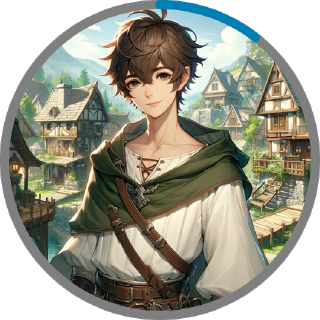
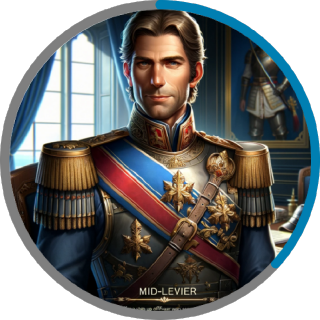
気になったところを修正

diff --git a/src/main.go b/src/main.go
@@ -2,7 +2,7 @@ package main
 
 import (
 	"fmt"
-
+	"time"
 	"log"
 	"net/http"
 	"os"
@@ -91,7 +91,7 @@ func getHistoryHandler(w http.ResponseWriter, r *http.Request) {
 		return
 	}
 
-	err = graphs.DrawCommitChart(dailyCommits, maxCommits, 1000, 700)
+	err = graphs.DrawCommitChart(dailyCommits, maxCommits, 1000, 700,username)
 	if err != nil {
 		fmt.Println(err)
 	}
@@ -136,31 +136,46 @@ func createHandler(w http.ResponseWriter, r *http.Request) {
 		// GETリクエストの処理
 		// 一意の画像ファイル名の生成（例: ユーザー名とタイムスタンプを組み合わせる）
 		imageFileName := fmt.Sprintf("result_%s.png", username)
+        // 画像ファイルの存在チェックと最終更新時間の確認
+        fileInfo, err := os.Stat(imageFileName)
+        regenerate := false // 再生成するかどうかのフラグ
 
-		// 画像ファイルの存在チェック
-		if _, err := os.Stat(imageFileName); os.IsNotExist(err) {
+        if err != nil && os.IsNotExist(err) {
+            // 画像が存在しない場合、再生成フラグを立てる
+            regenerate = true
+        } else if err == nil {
+            // 画像が存在する場合、最終更新時間からの経過時間を確認
+            elapsedTime := time.Since(fileInfo.ModTime())
+            if elapsedTime.Hours() >= 1 {
+                // 最終更新から1時間以上経過していれば、再生成フラグを立てる
+                regenerate = true
+            }
+        }
+
+        if regenerate {
 			// 画像が存在しない場合は、新たに生成
 
 			// 画像生成の処理...
+			_,star ,_ := funcs.GetRepositories(username)
 			// stats取得と画像生成
-			stats := funcs.CreateUserStats(username)
+			stats := funcs.CreateUserStats(username,star)
 			total := stats.TotalStars + stats.ContributedTo + stats.TotalIssues + stats.TotalPRs + stats.TotalCommits
 			// 言語画像の生成
 			language := funcs.CreateLanguageImg(username)
 			//レベル、職業判定
 			profession, level := funcs.JudgeRank(language, stats)
 
+
 			//対象のキャラの画像を取得
 			img := funcs.DispatchPictureBasedOnProfession(profession)
-			
-			// コミットカレンダー画像の生成
+
 			filePath := fmt.Sprintf("characterImages/%s", img)
 
 			// 背景画像の生成
 			funcs.DrawBackground(username, "Lv."+strconv.Itoa(level), profession)
 
 			// キャラクター画像の生成
-			funcs.CreateCharacterImg(filePath, "images/gauge.png", total, level)
+			funcs.CreateCharacterImg(filePath, "images/gauge.png", total, level,username)
 
 
 
@@ -170,7 +185,7 @@ func createHandler(w http.ResponseWriter, r *http.Request) {
 				return
 			}
 
-			err = graphs.DrawCommitChart(dailyCommits, maxCommits, 1000, 700)
+			err = graphs.DrawCommitChart(dailyCommits, maxCommits, 1000, 700,username)
 			if err != nil {
 				fmt.Println(err)
 			}
@@ -202,7 +217,7 @@ func main() {
 	// http.HandleFunc("/background", getBackgroundHandler)
 	http.HandleFunc("/create", createHandler)
 	fmt.Println("Hello, World!")
-	err := http.ListenAndServe(":8000", nil)
+	err := http.ListenAndServe(":8080", nil)
 	if err != nil {
 		log.Fatalf("HTTP server failed: %v", err)
 	}

diff --git a/src/funcs/get_repository.go b/src/funcs/get_repository.go
@@ -20,7 +20,7 @@ type Repository struct {
 }
 
 // レポジトリ取得の際のGraphQLのレスポンスを格納するための構造体です
-type GraphQLResponses struct {
+type GraphQLResponse struct {
 	Data struct {
 		User struct {
 			RepositoriesContributedTo struct {
@@ -39,13 +39,16 @@ type GraphQLResponses struct {
 						Login string `json:"login"`
 					} `json:"owner"`
 					IsFork bool `json:"isFork"`
+					Stargazers struct {
+						TotalCount int `json:"totalCount"`
+					} `json:"stargazers"`					
 				} `json:"nodes"`
 			} `json:"repositories"`
 		} `json:"user"`
 	} `json:"data"`
 }
 
-func GetRepositories(username, token string) ([]Repository, error) {
+func GetRepositories(username string) ([]Repository, int, error) {
 	// GraphQLクエリを定義
 	query := `
 	{
@@ -65,12 +68,17 @@ func GetRepositories(username, token string) ([]Repository, error) {
 						login
 					}
 					isFork
+					stargazers {
+						totalCount
+					  }
 				}
 			}
 		}
 	}
+	
 	`
 
+	token ,_:= GetTokens(0)
 	// GraphQLクエリにユーザー名を挿入
 	query = fmt.Sprintf(query, username)
 
@@ -80,13 +88,13 @@ func GetRepositories(username, token string) ([]Repository, error) {
 	reqBodyJSON, err := json.Marshal(reqBody)
 	if err != nil {
 		fmt.Println("JSON Marshal Error:", err)
-		return nil, err
+		return nil,0, err
 	}
 
 	req, err := http.NewRequest("POST", url, bytes.NewBuffer(reqBodyJSON))
 	if err != nil {
 		fmt.Println("Request Error:", err)
-		return nil, err
+		return nil, 0,err
 	}
 
 	req.Header.Set("Authorization", "Bearer "+token)
@@ -95,16 +103,16 @@ func GetRepositories(username, token string) ([]Repository, error) {
 	resp, err := client.Do(req)
 	if err != nil {
 		fmt.Println("Request Error:", err)
-		return nil, err
+		return nil, 0,err
 	}
 	defer resp.Body.Close()
 
 	// レスポンスをパース
-	var response GraphQLResponses
+	var response GraphQLResponse
 	err = json.NewDecoder(resp.Body).Decode(&response)
 	if err != nil {
 		fmt.Println("JSON Decode Error:", err)
-		return nil, err
+		return nil, 0,err
 	}
 
 	repositories := []Repository{}
@@ -131,8 +139,14 @@ func GetRepositories(username, token string) ([]Repository, error) {
 			repositories = append(repositories, repository)
 		}
 	}
+	// スターの総数を計算
+	totalStars := 0
+	for _, node := range response.Data.User.Repositories.Nodes {
+		totalStars += node.Stargazers.TotalCount
+	}
 
-	return repositories, nil
+	fmt.Printf("全リポジトリのスターの総数: %d\n", totalStars)
+	return repositories,totalStars, nil
 }
 
 // スライス内にリポジトリが存在するかを確認

diff --git a/src/funcs/create_character_img.go b/src/funcs/create_character_img.go
@@ -5,7 +5,7 @@ import (
 	"math"
 )
 
-func CreateCharacterImg(characterPath, gaugePath string, total, level int) {
+func CreateCharacterImg(characterPath, gaugePath string, total, level int,username string) {
 	// ゲージ画像生成のためのチャネル
 	gaugeImageChan := make(chan []byte)
 	percentage := (float64(total) - float64(math.Pow(float64(level), 2))) / (float64(math.Pow(float64(level+1), 2) - math.Pow(float64(level), 2)))
@@ -32,7 +32,8 @@ func CreateCharacterImg(characterPath, gaugePath string, total, level int) {
 	}
 
 	// 画像をファイルに保存
-	err = SaveImage("./images/generate_character.png", mergedImage)
+	imageFileName := fmt.Sprintf("./images/generate_character_%s.png", username)
+	err = SaveImage(imageFileName , mergedImage)
 	if err != nil {
 		fmt.Println(err)
 		return

diff --git a/src/graphs/commit_chart.go b/src/graphs/commit_chart.go
@@ -11,7 +11,7 @@ import (
 	// "log"
 )
 
-func DrawCommitChart(commitsHistory []int, maxCommits int, width int, height int) error {
+func DrawCommitChart(commitsHistory []int, maxCommits int, width int, height int,username string) error {
 	y := make([]float64, len(commitsHistory))
 	for i := range y {
 		y[i] = float64(commitsHistory[i])
@@ -75,8 +75,8 @@ func DrawCommitChart(commitsHistory []int, maxCommits int, width int, height int
 	p.Y.LineStyle.Color = white
 
 	p.X.Padding, p.Y.Padding = 0, 0
-
-	if err := p.Save(5*vg.Inch, 2*vg.Inch, "./images/commits_history.png"); err != nil {
+	imageFileName := fmt.Sprintf("./images/commits_history_%s.png", username)
+	if err := p.Save(5*vg.Inch, 2*vg.Inch, imageFileName); err != nil {
 		panic(err)
 	}
 

diff --git a/src/funcs/create_user_stats.go b/src/funcs/create_user_stats.go
@@ -5,14 +5,15 @@ import (
 	"log"
 )
 
-func CreateUserStats(username string) UserStats {
+func CreateUserStats(username string, star int) UserStats {
 	// GitHubのアクセストークンを設定
 	token, _ := GetTokens(0)
 	stats := GetUserInfo(username, token)
 	fmt.Println("stats: ", stats)
-	ImgBytes, _ := GenerateGitHubStatsImage(stats, 600, 400)
+	ImgBytes, _ := GenerateGitHubStatsImage(stats,star, 600, 400)
+	imageFileName := fmt.Sprintf("./images/stats_%s.png", username)
 
-	err := SaveImage("./images/stats.png", ImgBytes)
+	err := SaveImage(imageFileName , ImgBytes)
 	if err != nil {
 		// エラーが発生した場合の処理
 		log.Fatal(err) // または他のエラーハンドリング方法を選択してください

diff --git a/src/funcs/draw_user_status.go b/src/funcs/draw_user_status.go
@@ -8,7 +8,7 @@ import (
 )
 
 // GenerateGitHubStatsImage 関数はユーザー統計情報を受け取り、グラフィカルな表現を画像として生成します。
-func GenerateGitHubStatsImage(stats UserStats, width, height int) ([]byte, error) {
+func GenerateGitHubStatsImage(stats UserStats, star ,width, height int) ([]byte, error) {
 	// const padding = 20.0
 	// const lineHeight = 30.0
 
@@ -30,7 +30,7 @@ func GenerateGitHubStatsImage(stats UserStats, width, height int) ([]byte, error
 		Label string
 		Value int
 	}{
-		{"Total Stars Earned:", stats.TotalStars},
+		{"Total Stars Earned:", star},
 		{"Total Commits:", stats.TotalCommits},
 		{"Total PRs:", stats.TotalPRs},
 		{"Total Issues:", stats.TotalIssues},

diff --git a/src/funcs/create_language_img.go b/src/funcs/create_language_img.go
@@ -66,7 +66,7 @@ func CreateLanguageImg(username string) []LanguageStat {
 
 	// ユーザーのリポジトリ情報を取得
 
-	repos, err := GetRepositories(username, token)
+	repos,_, err := GetRepositories(username)
 
 	if err != nil {
 		fmt.Println(err)
@@ -119,9 +119,9 @@ func CreateLanguageImg(username string) []LanguageStat {
 	}
 
 	ImgBytes, _ := GenerateLanguageUsageGraph(languages, 600, 400)
-
+	imageFileName := fmt.Sprintf("./images/language_%s.png", username)
 	// 画像をファイルに保存
-	err = SaveImage("./images/language.png", ImgBytes)
+	err = SaveImage(imageFileName, ImgBytes)
 	if err != nil {
 		fmt.Println(err)
 

diff --git a/src/funcs/get_language.go b/src/funcs/get_language.go
@@ -78,6 +78,8 @@ func GetRepositoryLanguage(repoName, repoOwner, token string) (map[string]int, i
 		return nil, 0, err
 	}
 
+	
+
 	// 言語別のファイルサイズをマップに集計
 	languageSizes := make(map[string]int)
 	for _, edge := range response.Data.Repository.Languages.Edges {
@@ -87,6 +89,7 @@ func GetRepositoryLanguage(repoName, repoOwner, token string) (map[string]int, i
 	}
 
 	totalSize := response.Data.Repository.Languages.TotalSize
+
 
 	return languageSizes, totalSize, nil
 }

diff --git a/src/funcs/draw_background.go b/src/funcs/draw_background.go
@@ -68,7 +68,8 @@ func DrawBackground(username, level, kind string) {
 	// ボーダーの上に背景画像を描画
 	dcBorder.DrawImage(dc.Image(), 0, 0)
 	// 画像をPNG形式で保存
-	if err := dc.SavePNG("./images/background.png"); err != nil {
+    imageFileName := fmt.Sprintf("./images/background_%s.png", username)
+	if err := dc.SavePNG(imageFileName ); err != nil {
 		log.Fatal(err)
 	}
 
